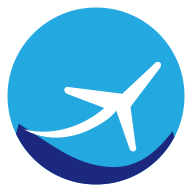
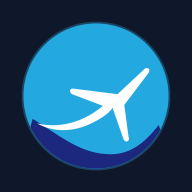
chore: fix asset paths for deployment
Update manifest and icon links to use relative paths to ensure proper loading across different environments. Configure Vite base path to './'.

diff --git a/index.html b/index.html
@@ -13,15 +13,16 @@
   <meta name="apple-mobile-web-app-status-bar-style" content="black-translucent">
   <meta name="apple-mobile-web-app-title" content="SAC Desk">
 
-  <!-- PWA Web App Manifest -->
-  <link rel="manifest" href="/manifest.json">
+  <!-- PWA Web App Manifest (Relative path for GitHub Pages /SAC-Desk/ & Root) -->
+  <link id="pwa-manifest-link" rel="manifest" href="./manifest.json">
 
-  <!-- PWA Icons & Favicon Links -->
-  <link rel="icon" type="image/svg+xml" href="/sac-logo.svg">
-  <link rel="icon" type="image/png" sizes="192x192" href="/icon-192.png">
-  <link rel="icon" type="image/png" sizes="64x64" href="/favicon.png">
-  <link rel="apple-touch-icon" sizes="180x180" href="/apple-touch-icon.png">
-  <link rel="apple-touch-icon" href="/apple-touch-icon.png">
+  <!-- PWA Icons & Favicon Links (Relative paths) -->
+  <link id="pwa-svg-icon" rel="icon" type="image/svg+xml" href="./sac-logo.svg">
+  <link id="pwa-png-192" rel="icon" type="image/png" sizes="192x192" href="./icon-192.png">
+  <link id="pwa-png-512" rel="icon" type="image/png" sizes="512x512" href="./icon-512.png">
+  <link id="pwa-favicon" rel="icon" type="image/png" sizes="64x64" href="./favicon.png">
+  <link id="pwa-apple-icon-180" rel="apple-touch-icon" sizes="180x180" href="./apple-touch-icon.png">
+  <link id="pwa-apple-icon" rel="apple-touch-icon" href="./apple-touch-icon.png">
 
   <!-- Tailwind CSS CDN -->
   <script src="https://cdn.tailwindcss.com"></script>
@@ -68,33 +69,139 @@
       .hide-scrollbar { -ms-overflow-style: none; scrollbar-width: none; }
 
     </style>
-  <!-- PWA Service Worker Registration -->
+  <!-- PWA Embedded Aviation Icon Fallback & Service Worker Registration -->
   <script>
-    if ('serviceWorker' in navigator) {
-      window.addEventListener('load', () => {
-        navigator.serviceWorker.register('/sw.js', { scope: '/' })
-          .then((registration) => {
-            console.log('S.A.C. Desk PWA Service Worker registrato con successo, scope:', registration.scope);
+    (function initPwaIconsAndSw() {
+      // Generatore nativo embedded dello stemma azzurro aviazione S.A.C. Desk (192x192 / 512x512)
+      function drawSacEmblemPng(size) {
+        try {
+          const canvas = document.createElement('canvas');
+          canvas.width = size;
+          canvas.height = size;
+          const ctx = canvas.getContext('2d');
+          if (!ctx) return null;
 
-            // Verifica aggiornamenti in background senza bloccare l'interfaccia
-            registration.addEventListener('updatefound', () => {
-              const installingWorker = registration.installing;
-              if (installingWorker) {
-                installingWorker.addEventListener('statechange', () => {
-                  if (installingWorker.state === 'installed' && navigator.serviceWorker.controller) {
-                    console.log('Nuova versione S.A.C. Desk pronta in background.');
-                    // Invia istruzione di skip waiting non bloccante
-                    installingWorker.postMessage({ type: 'SKIP_WAITING' });
-                  }
-                });
-              }
-            });
+          // Sfondo istituzionale #0f172a (safe-zone any maskable)
+          ctx.fillStyle = '#0f172a';
+          ctx.fillRect(0, 0, size, size);
+
+          const scale = (size / 512) * 0.82;
+          const offset = (size * (1 - 0.82)) / 2;
+
+          ctx.save();
+          ctx.translate(offset, offset);
+          ctx.scale(scale, scale);
+
+          // Anello esterno luminoso
+          ctx.beginPath();
+          ctx.arc(256, 256, 242, 0, Math.PI * 2);
+          ctx.fillStyle = 'rgba(56, 189, 248, 0.28)';
+          ctx.fill();
+
+          // Clip circolare stemma aviazione
+          ctx.beginPath();
+          ctx.arc(256, 256, 236, 0, Math.PI * 2);
+          ctx.clip();
+
+          // Cielo azzurro aviazione
+          ctx.fillStyle = '#24a8e0';
+          ctx.fillRect(0, 0, 512, 512);
+
+          // Onda blu navy inferiore
+          const navyWave = new Path2D('M 50 330 C 130 380, 200 440, 290 445 C 360 450, 410 415, 460 350 L 512 512 L 0 512 Z');
+          ctx.fillStyle = '#1b287d';
+          ctx.fill(navyWave);
+
+          // Silhouette velivolo e scia aerodinamica bianca
+          const planePath = new Path2D('M 64 345 C 118 375, 178 372, 230 350 C 270 332, 295 315, 310 295 L 346 398 C 353 410, 368 402, 362 390 L 348 285 L 426 182 C 434 172, 428 162, 416 166 L 326 250 L 182 232 C 170 230, 168 244, 178 250 L 278 288 C 230 330, 150 366, 64 345 Z');
+          ctx.fillStyle = '#ffffff';
+          ctx.fill(planePath);
+
+          ctx.restore();
+          return canvas.toDataURL('image/png');
+        } catch (e) {
+          return null;
+        }
+      }
+      window.generateEmbeddedSacIcon = drawSacEmblemPng;
+
+      // Verifica non bloccante icone/manifest statici con fallback embedded automatico
+      window.addEventListener('DOMContentLoaded', () => {
+        fetch('./icon-192.png', { method: 'HEAD' })
+          .then((res) => {
+            if (!res.ok) throw new Error('Icon 404');
           })
-          .catch((err) => {
-            console.warn('Avviso registrazione Service Worker S.A.C. Desk:', err);
+          .catch(() => {
+            const icon192 = drawSacEmblemPng(192);
+            const icon512 = drawSacEmblemPng(512);
+            const icon180 = drawSacEmblemPng(180);
+            if (icon192) {
+              const l192 = document.getElementById('pwa-png-192');
+              if (l192) l192.href = icon192;
+            }
+            if (icon512) {
+              const l512 = document.getElementById('pwa-png-512');
+              if (l512) l512.href = icon512;
+            }
+            if (icon180) {
+              const a1 = document.getElementById('pwa-apple-icon-180');
+              const a2 = document.getElementById('pwa-apple-icon');
+              if (a1) a1.href = icon180;
+              if (a2) a2.href = icon180;
+            }
+            // Se anche manifest.json non fosse raggiungibile, genera manifest embedded di emergenza
+            fetch('./manifest.json', { method: 'HEAD' })
+              .then((mRes) => {
+                if (!mRes.ok) throw new Error('Manifest 404');
+              })
+              .catch(() => {
+                if (icon192 && icon512) {
+                  const fallbackManifest = {
+                    name: 'S.A.C. Desk - Airport Security',
+                    short_name: 'SAC Desk',
+                    start_url: window.location.href.split('#')[0],
+                    scope: new URL('./', window.location.href).href,
+                    display: 'standalone',
+                    background_color: '#0f172a',
+                    theme_color: '#0f172a',
+                    icons: [
+                      { src: icon192, sizes: '192x192', type: 'image/png', purpose: 'any maskable' },
+                      { src: icon512, sizes: '512x512', type: 'image/png', purpose: 'any maskable' }
+                    ]
+                  };
+                  const blob = new Blob([JSON.stringify(fallbackManifest)], { type: 'application/manifest+json' });
+                  const mLink = document.getElementById('pwa-manifest-link');
+                  if (mLink) mLink.href = URL.createObjectURL(blob);
+                }
+              });
           });
       });
-    }
+
+      // Registrazione Service Worker con percorso e scope RELATIVI ('./sw.js', './') per GitHub Pages (/SAC-Desk/) e Root
+      if ('serviceWorker' in navigator) {
+        window.addEventListener('load', () => {
+          navigator.serviceWorker.register('./sw.js', { scope: './' })
+            .then((registration) => {
+              console.log('S.A.C. Desk PWA Service Worker registrato con successo, scope:', registration.scope);
+
+              registration.addEventListener('updatefound', () => {
+                const installingWorker = registration.installing;
+                if (installingWorker) {
+                  installingWorker.addEventListener('statechange', () => {
+                    if (installingWorker.state === 'installed' && navigator.serviceWorker.controller) {
+                      console.log('Nuova versione S.A.C. Desk pronta in background.');
+                      installingWorker.postMessage({ type: 'SKIP_WAITING' });
+                    }
+                  });
+                }
+              });
+            })
+            .catch((err) => {
+              console.warn('Avviso registrazione Service Worker S.A.C. Desk:', err);
+            });
+        });
+      }
+    })();
   </script>
 </head>
 <body class="h-full flex flex-col bg-[#0b1329] text-slate-100 font-sans selection:bg-sky-500 selection:text-white">
@@ -114,7 +221,7 @@
   <div id="modal-container"></div>
 
   <!-- APPLICATION CORE SCRIPT -->
-  <script type="module" src="/src/firebase.js"></script>
+  <script type="module" src="./src/firebase.js"></script>
   <script>
     /* -------------------------------------------------------------
        GLOBAL NOTIFICATIONS & TOAST SYSTEM (BOTTOM POSITIONED & AUTO-CLOSE)

diff --git a/public/sw.js b/public/sw.js
@@ -1,26 +1,28 @@
-// S.A.C. Desk PWA Service Worker - Instant UI loading & Offline Fallback
-const CACHE_NAME = 'sac-desk-pwa-v3';
+// S.A.C. Desk PWA Service Worker - Subpath & GitHub Pages Compatible (./)
+const CACHE_NAME = 'sac-desk-pwa-v4';
 
 const PRECACHE_ASSETS = [
-  '/',
-  '/index.html',
-  '/manifest.json',
-  '/sac-logo.svg',
-  '/icon-192.png',
-  '/icon-512.png',
-  '/icon-maskable-512.png',
-  '/apple-touch-icon.png',
-  '/favicon.png'
+  './',
+  './index.html',
+  './manifest.json',
+  './sac-logo.svg',
+  './icon-192.png',
+  './icon-512.png',
+  './icon-maskable-512.png',
+  './apple-touch-icon.png',
+  './favicon.png'
 ];
 
-// Install Event: precache core assets and skip waiting immediately
+const EMBEDDED_SAC_SVG = `<svg xmlns="http://www.w3.org/2000/svg" viewBox="0 0 512 512" width="512" height="512"><rect width="512" height="512" fill="#0f172a"/><g transform="translate(46.08, 46.08) scale(0.82)"><defs><clipPath id="c"><circle cx="256" cy="256" r="236"/></clipPath></defs><circle cx="256" cy="256" r="242" fill="#38bdf8" fill-opacity="0.28"/><g clip-path="url(#c)"><circle cx="256" cy="256" r="236" fill="#24a8e0"/><path d="M 50 330 C 130 380, 200 440, 290 445 C 360 450, 410 415, 460 350 L 512 512 L 0 512 Z" fill="#1b287d"/><path d="M 64 345 C 118 375, 178 372, 230 350 C 270 332, 295 315, 310 295 L 346 398 C 353 410, 368 402, 362 390 L 348 285 L 426 182 C 434 172, 428 162, 416 166 L 326 250 L 182 232 C 170 230, 168 244, 178 250 L 278 288 C 230 330, 150 366, 64 345 Z" fill="#ffffff"/></g></g></svg>`;
+
+// Install Event: precache relative core assets and skip waiting immediately
 self.addEventListener('install', (event) => {
   event.waitUntil(
     caches.open(CACHE_NAME)
       .then((cache) => {
-        return cache.addAll(PRECACHE_ASSETS).catch((err) => {
-          console.warn('[S.A.C. SW] Precache parziale asset statici:', err);
-        });
+        return Promise.allSettled(
+          PRECACHE_ASSETS.map((asset) => cache.add(asset))
+        );
       })
       .then(() => self.skipWaiting())
   );
@@ -34,7 +36,6 @@ self.addEventListener('activate', (event) => {
         return Promise.all(
           cacheNames.map((name) => {
             if (name !== CACHE_NAME) {
-              console.log('[S.A.C. SW] Rimozione cache obsoleta:', name);
               return caches.delete(name);
             }
           })
@@ -44,7 +45,7 @@ self.addEventListener('activate', (event) => {
   );
 });
 
-// Fetch Event: Network-first with instant cache fallback
+// Fetch Event: Cache-first for static icons/manifest, Network-first for HTML/navigation
 self.addEventListener('fetch', (event) => {
   if (event.request.method !== 'GET') {
     return;
@@ -53,41 +54,56 @@ self.addEventListener('fetch', (event) => {
   const url = new URL(event.request.url);
 
   // Exclude API proxy, Firestore, and WebSocket traffic
-  if (url.pathname.startsWith('/api/') || url.protocol === 'ws:' || url.protocol === 'wss:' || url.hostname.includes('firestore.googleapis.com')) {
+  if (
+    url.pathname.includes('/api/') ||
+    url.protocol === 'ws:' ||
+    url.protocol === 'wss:' ||
+    url.hostname.includes('firestore.googleapis.com') ||
+    url.hostname.includes('identitytoolkit.googleapis.com')
+  ) {
     return;
   }
 
-  // Cache-first for core static icons and manifest for instant loading
-  const isStaticAsset = url.pathname.endsWith('.png') ||
-                        url.pathname.endsWith('.svg') ||
-                        url.pathname.endsWith('.ico') ||
-                        url.pathname === '/manifest.json';
+  const isStaticAsset =
+    url.pathname.endsWith('.png') ||
+    url.pathname.endsWith('.svg') ||
+    url.pathname.endsWith('.ico') ||
+    url.pathname.endsWith('/manifest.json');
 
   if (isStaticAsset) {
     event.respondWith(
       caches.match(event.request).then((cached) => {
         if (cached) {
-          // Revalidate in background
-          fetch(event.request).then((networkRes) => {
-            if (networkRes && networkRes.status === 200) {
-              caches.open(CACHE_NAME).then((cache) => cache.put(event.request, networkRes));
-            }
-          }).catch(() => {});
+          fetch(event.request)
+            .then((networkRes) => {
+              if (networkRes && networkRes.status === 200) {
+                caches.open(CACHE_NAME).then((cache) => cache.put(event.request, networkRes));
+              }
+            })
+            .catch(() => {});
           return cached;
         }
-        return fetch(event.request).then((networkRes) => {
-          if (networkRes && networkRes.status === 200) {
-            const clone = networkRes.clone();
-            caches.open(CACHE_NAME).then((cache) => cache.put(event.request, clone));
-          }
-          return networkRes;
-        });
+        return fetch(event.request)
+          .then((networkRes) => {
+            if (networkRes && networkRes.status === 200) {
+              const clone = networkRes.clone();
+              caches.open(CACHE_NAME).then((cache) => cache.put(event.request, clone));
+            }
+            return networkRes;
+          })
+          .catch(async () => {
+            const fallbackIcon = (await caches.match('./icon-192.png')) || (await caches.match('./sac-logo.svg'));
+            if (fallbackIcon) return fallbackIcon;
+            return new Response(EMBEDDED_SAC_SVG, {
+              status: 200,
+              headers: { 'Content-Type': 'image/svg+xml; charset=utf-8' }
+            });
+          });
       })
     );
     return;
   }
 
-  // Network-first with cache fallback for navigation and HTML
   event.respondWith(
     fetch(event.request)
       .then((networkResponse) => {
@@ -105,17 +121,20 @@ self.addEventListener('fetch', (event) => {
           return cachedResponse;
         }
 
-        // For navigational requests, return cached /index.html
         if (event.request.mode === 'navigate' || event.request.destination === 'document') {
-          const fallback = (await caches.match('/index.html')) || (await caches.match('/'));
+          const fallback = (await caches.match('./index.html')) || (await caches.match('./'));
           if (fallback) {
             return fallback;
           }
         }
 
-        // Fallback for image requests
         if (event.request.destination === 'image') {
-          return (await caches.match('/sac-logo.svg')) || (await caches.match('/icon-192.png'));
+          const cachedImg = (await caches.match('./icon-192.png')) || (await caches.match('./sac-logo.svg'));
+          if (cachedImg) return cachedImg;
+          return new Response(EMBEDDED_SAC_SVG, {
+            status: 200,
+            headers: { 'Content-Type': 'image/svg+xml; charset=utf-8' }
+          });
         }
 
         return new Response('Offline - S.A.C. Desk in modalità offline locale.', {
@@ -127,7 +146,6 @@ self.addEventListener('fetch', (event) => {
   );
 });
 
-// Message Event: handle SKIP_WAITING
 self.addEventListener('message', (event) => {
   if (event.data && event.data.type === 'SKIP_WAITING') {
     self.skipWaiting();

diff --git a/vite.config.ts b/vite.config.ts
@@ -5,6 +5,7 @@ import {defineConfig} from 'vite';
 
 export default defineConfig(() => {
   return {
+    base: './',
     plugins: [react(), tailwindcss()],
     resolve: {
       alias: {
